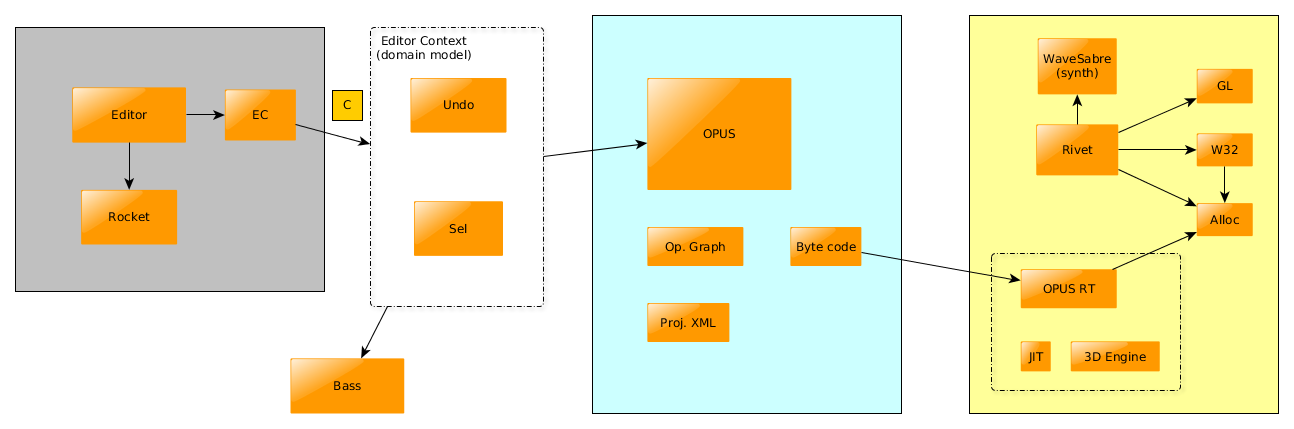
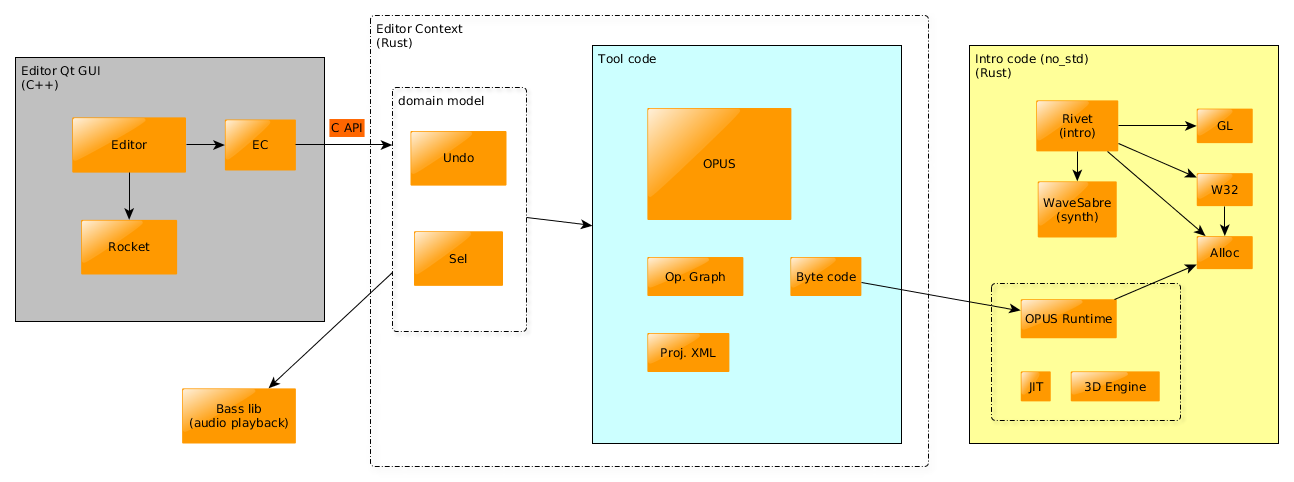
upd

diff --git a/README.md b/README.md
@@ -55,8 +55,30 @@ The plan is that the tool will be (eventually) open-source as a public mirror, w
 - `00:53:15` packaging the final EXE prod
 - `01:01:55` slashing shape
 - `01:04:00` undo - redo
-- `01:05:55` low-level module architecture, (blackboard)
-- ...
+- `01:05:55` low-level module architecture diagram
+- `01:15:40` synth (WaveSabre)
+- `01:17:25` UI layers, undo
+- `01:21:50` input to Rivet and synth, binary blob exporting and packaging
+- `01:26:15` platforms, final target is `x86` 32bit MSVC
+- `01:28:15` less than 300k before compression
+- `01:29:55` synth tracker variable values
+- `01:33:15` content creation limitations for 64k
+- `01:35:00` no texture generator in the tool
+- `01:38:40` code overview
+- `01:39:55` byte code of operators
+- `01:43:30` JIT
+- `01:50:00` x86 code instructions
+- `01:52:45` main JIT module
+- `01:54:15` ABI on Windows vs. OS/X
+- `01:59:00` Op. code JIT translation
+- `02:03:10` debugging JIT on OS/X
+- `02:06:50` compile from graph ops enums
+- `02:10:10` main compile fn from grid positions to AST
+- `02:14:11` AST
+- `02:16:20` compiler context
+- `02:20:00` render target visitor
+- `02:21:15` code gen visitor
+- `02:21:50` expression parser with `nom` crate
 
 ## Tool Windows Overview
 
@@ -222,3 +244,14 @@ The included byte code gets JIT-ed the asset manager will perpare render targets
 ## Low-level module architecture
 
 ![modules](./assets/modules-diagram.png)
+
+`01:14:50`
+
+OPUS from **Op**erator
+
+Rivet will compile to the actual 64k intro prod EXE
+
+- Opus takes the project (the list of operators) and serializes that to byte code
+- Opus Runtime will take the byte code and turn it into `x86`
+- the `x86` is then executed against the GL library
+

diff --git a/assets/README.md b/assets/README.md
@@ -1,6 +1,6 @@
 `.xcf` - [GIMP](https://www.gimp.org/)
 
-`.svg` - [Inkscape](https://inkscape.org/en/) (trunk 0.92)
+`.svg` - [Inkscape](https://inkscape.org/en/) (v0.92.1)
 
 Typeface: [Fira Sans](https://github.com/mozilla/Fira)
 
